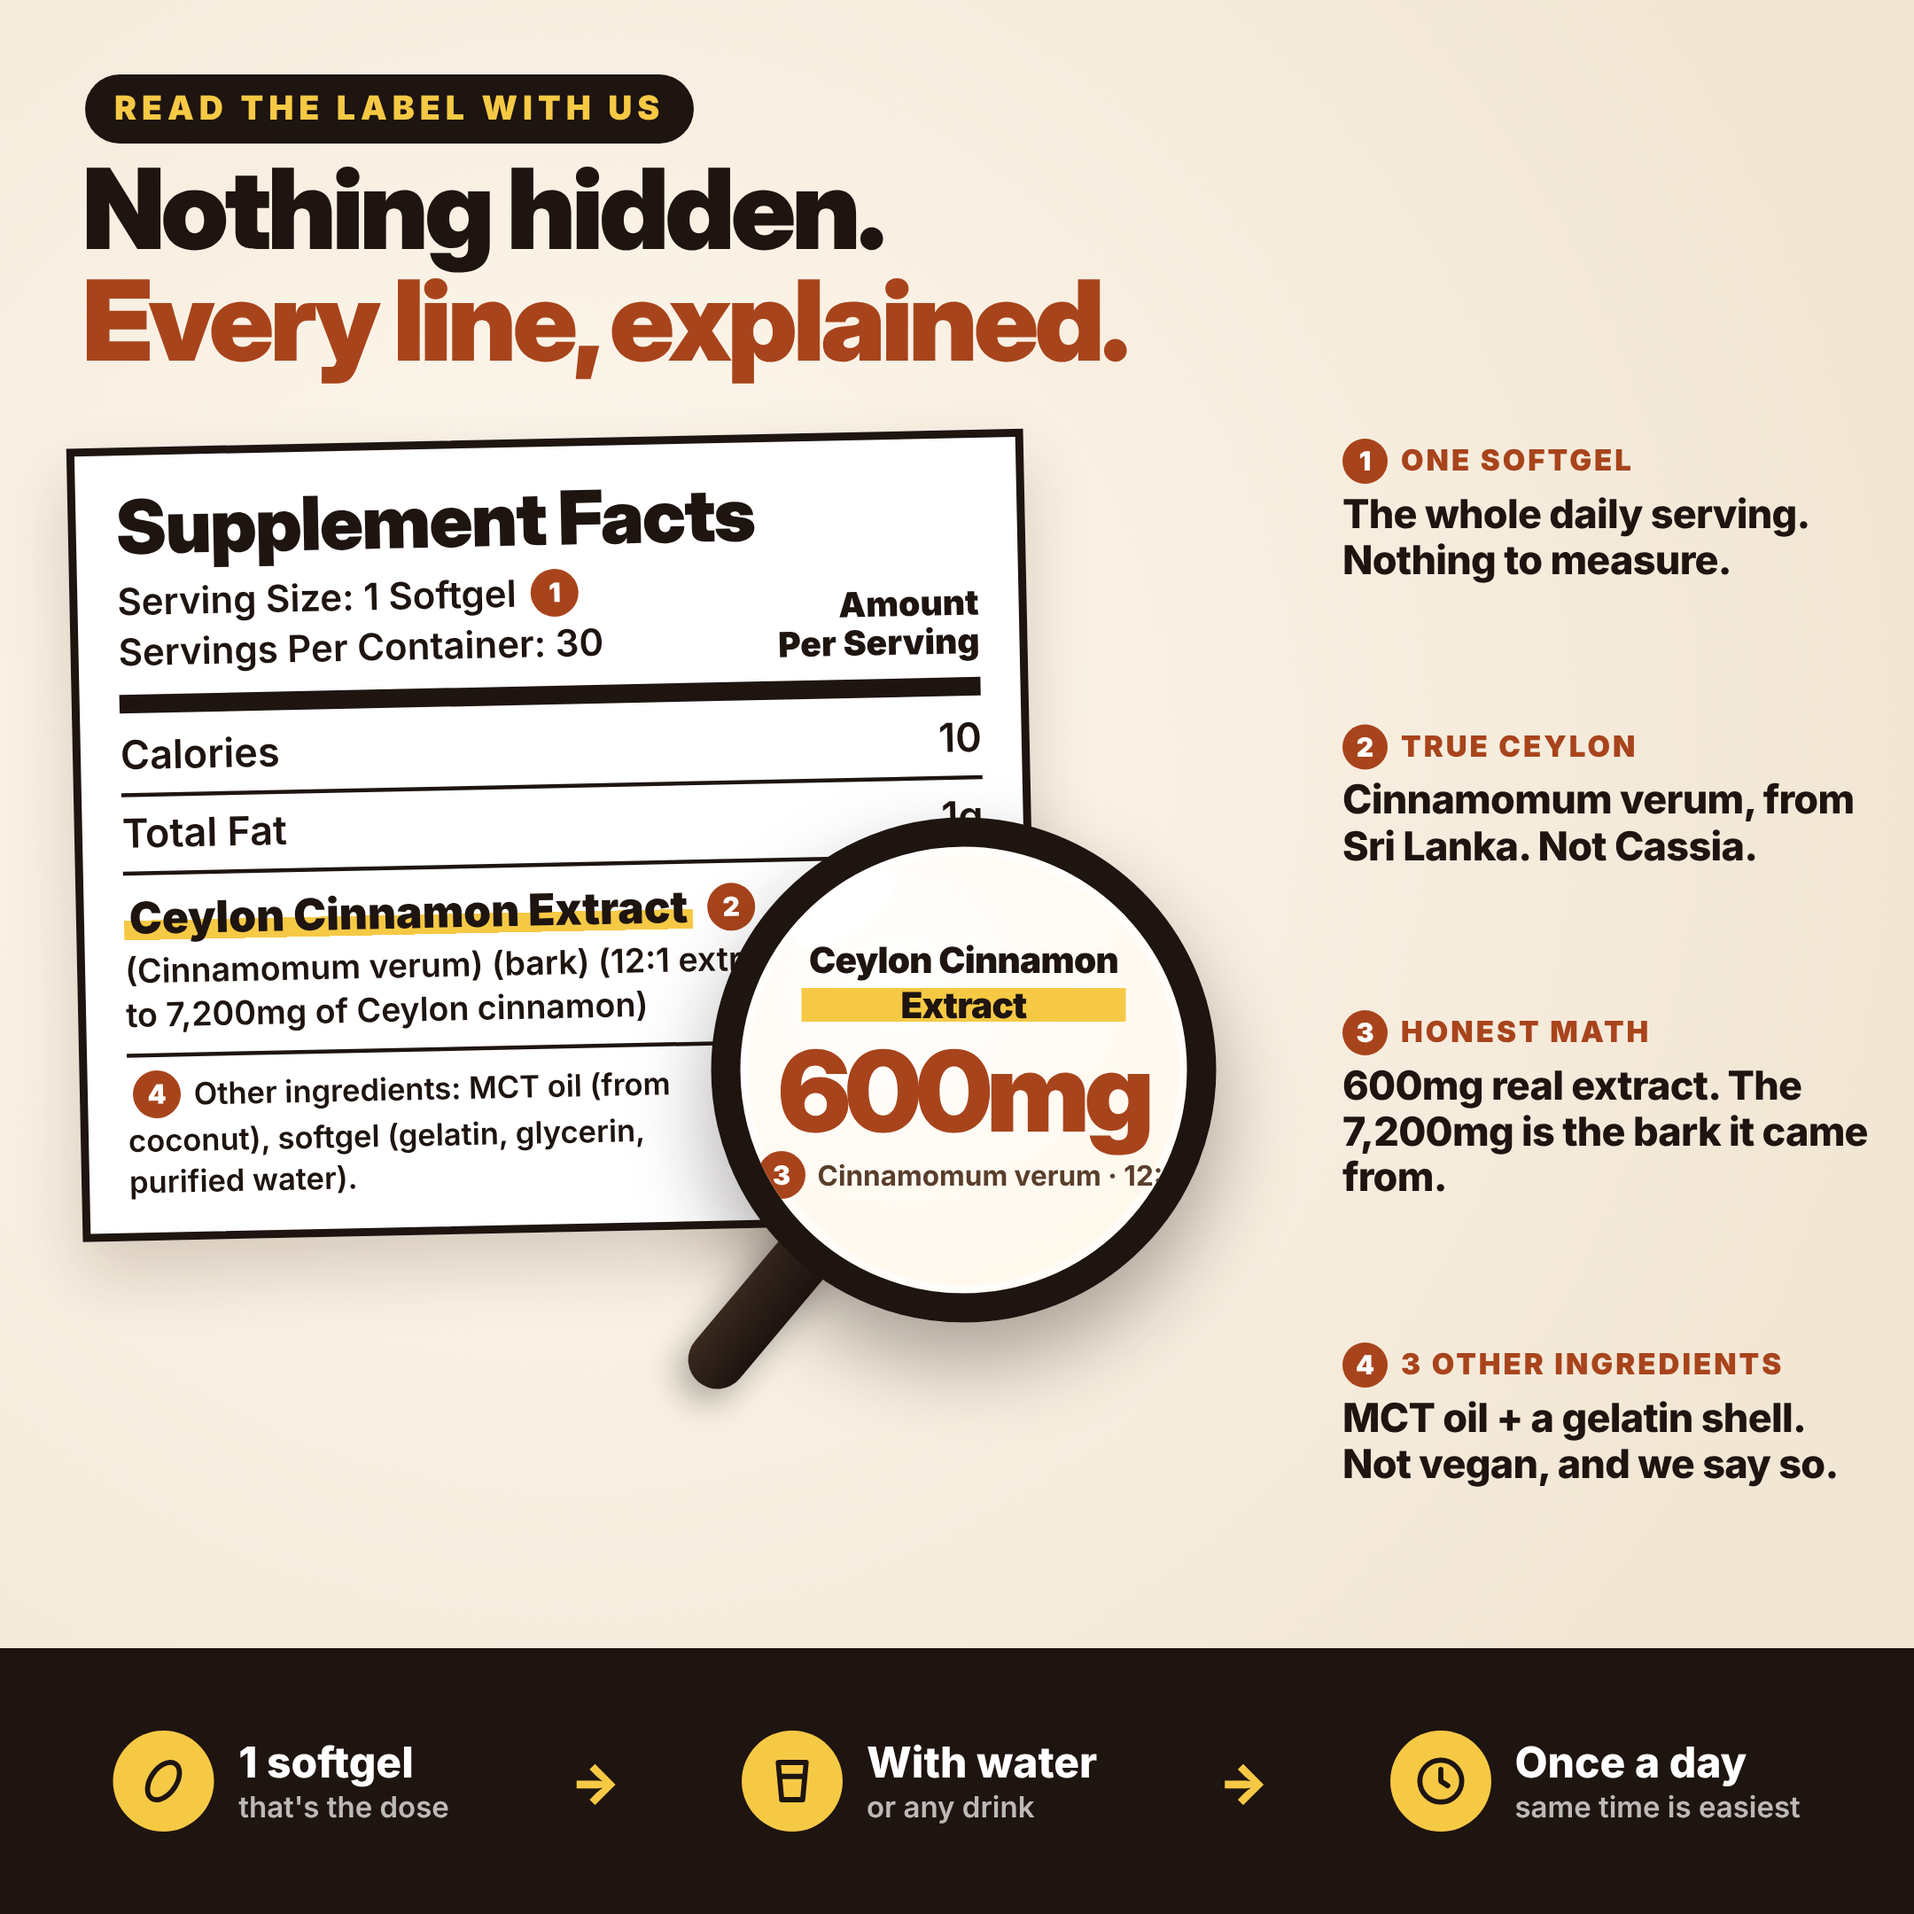
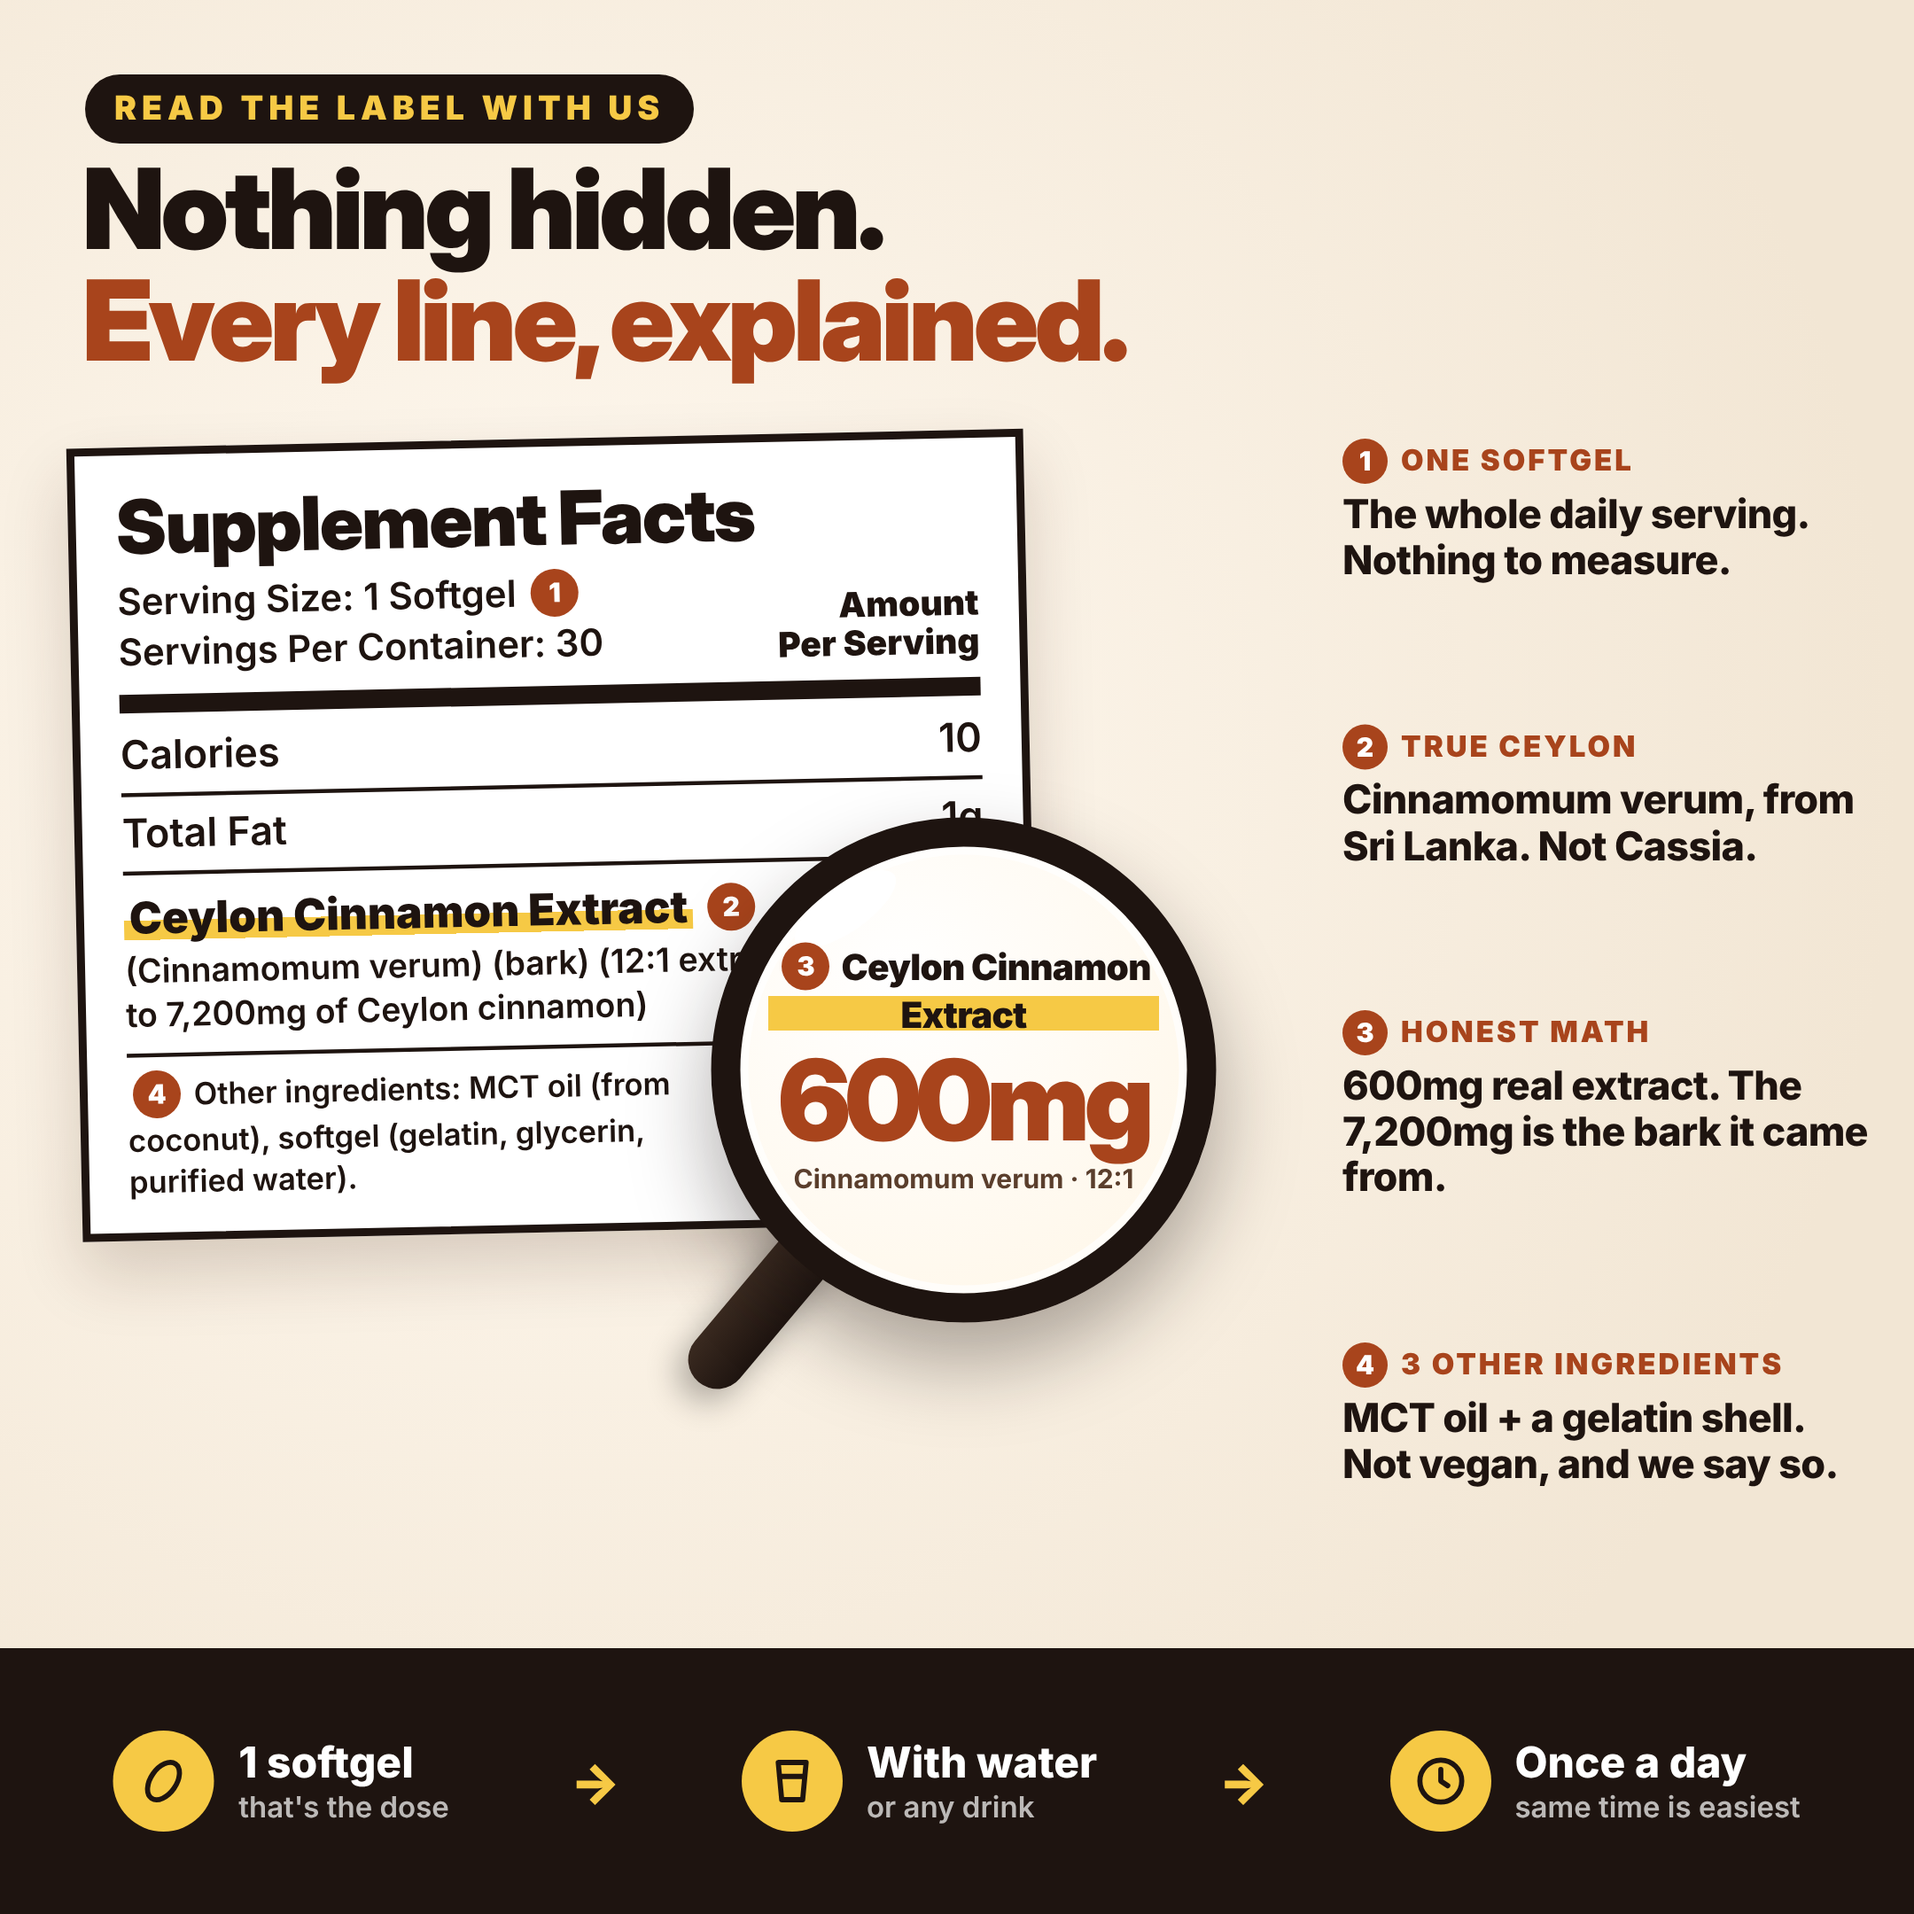
Cinnora: label lens fit
Claude-Session: https://claude.ai/code/session_01WXdKv4Lmy6DFabBeRvSUZr

Changed region(s): [[0.4032, 0.4963, 0.6204, 0.6204]]

diff --git a/ceylon-cinnamon/hero/label2.html b/ceylon-cinnamon/hero/label2.html
@@ -30,7 +30,7 @@ svg.ln{position:absolute;inset:0;pointer-events:none}
 .lens .in{position:absolute;inset:0;display:flex;flex-direction:column;align-items:center;justify-content:center;text-align:center}
 .lens .a{font-weight:900;font-size:27px;line-height:1.25;letter-spacing:-.5px;background:linear-gradient(transparent 55%,#F6C945 55%,#F6C945 92%,transparent 92%);padding:0 6px}
 .lens .b{font-family:'Inter Display';font-weight:900;font-size:84px;letter-spacing:-4px;color:#A8441C;line-height:1;margin-top:6px}
-.lens .c{font-weight:700;font-size:21px;color:#5A3E2C;margin-top:4px}
+.lens .c{font-weight:700;font-size:20px;color:#5A3E2C;margin-top:4px}
 .handle{position:absolute;left:600px;top:925px;width:44px;height:150px;border-radius:24px;background:linear-gradient(90deg,#3A2A20,#1E1410);transform:rotate(40deg);transform-origin:top center;z-index:2;box-shadow:0 12px 24px rgba(0,0,0,.3)}
 .steps{position:absolute;left:0;right:0;bottom:0;height:200px;background:#1E1410;color:#fff;display:flex;align-items:center;justify-content:space-around;padding:0 40px}
 .st{display:flex;align-items:center;gap:18px}
@@ -58,7 +58,7 @@ svg.ln{position:absolute;inset:0;pointer-events:none}
 <div class="n" style="left:1010px;top:760px"><div class="tag"><i>3</i>HONEST MATH</div><div class="tx">600mg real extract. The 7,200mg is the bark it came from.</div></div>
 <div class="n" style="left:1010px;top:1010px"><div class="tag"><i>4</i>3 OTHER INGREDIENTS</div><div class="tx">MCT oil + a gelatin shell. Not vegan, and we say so.</div></div>
 <div class="lens"><div class="in">
-<div class="a">Ceylon Cinnamon<br>Extract</div><div class="b">600mg</div><div class="c"><i class="bi">3</i> Cinnamomum verum · 12:1</div></div></div>
+<div class="a"><i class="bi">3</i> Ceylon Cinnamon<br>Extract</div><div class="b">600mg</div><div class="c">Cinnamomum verum · 12:1</div></div></div>
 <div class="handle"></div>
 <div class="steps">
  <div class="st"><div class="c"><svg viewBox="0 0 24 24"><ellipse cx="12" cy="12" rx="5.5" ry="9" transform="rotate(35 12 12)"/></svg></div><div class="t">1 softgel<small>that's the dose</small></div></div>
